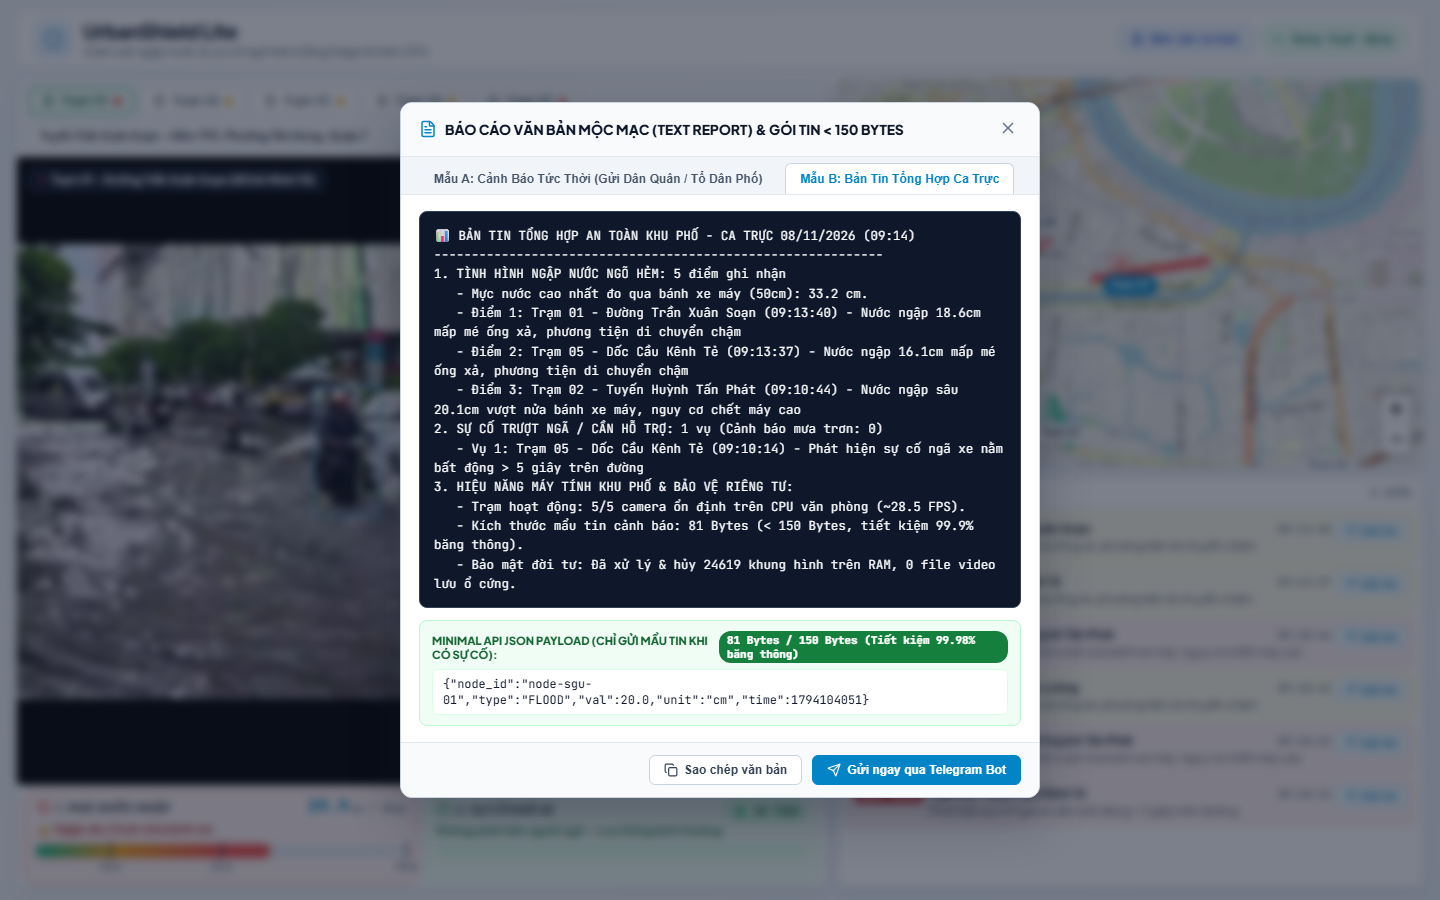
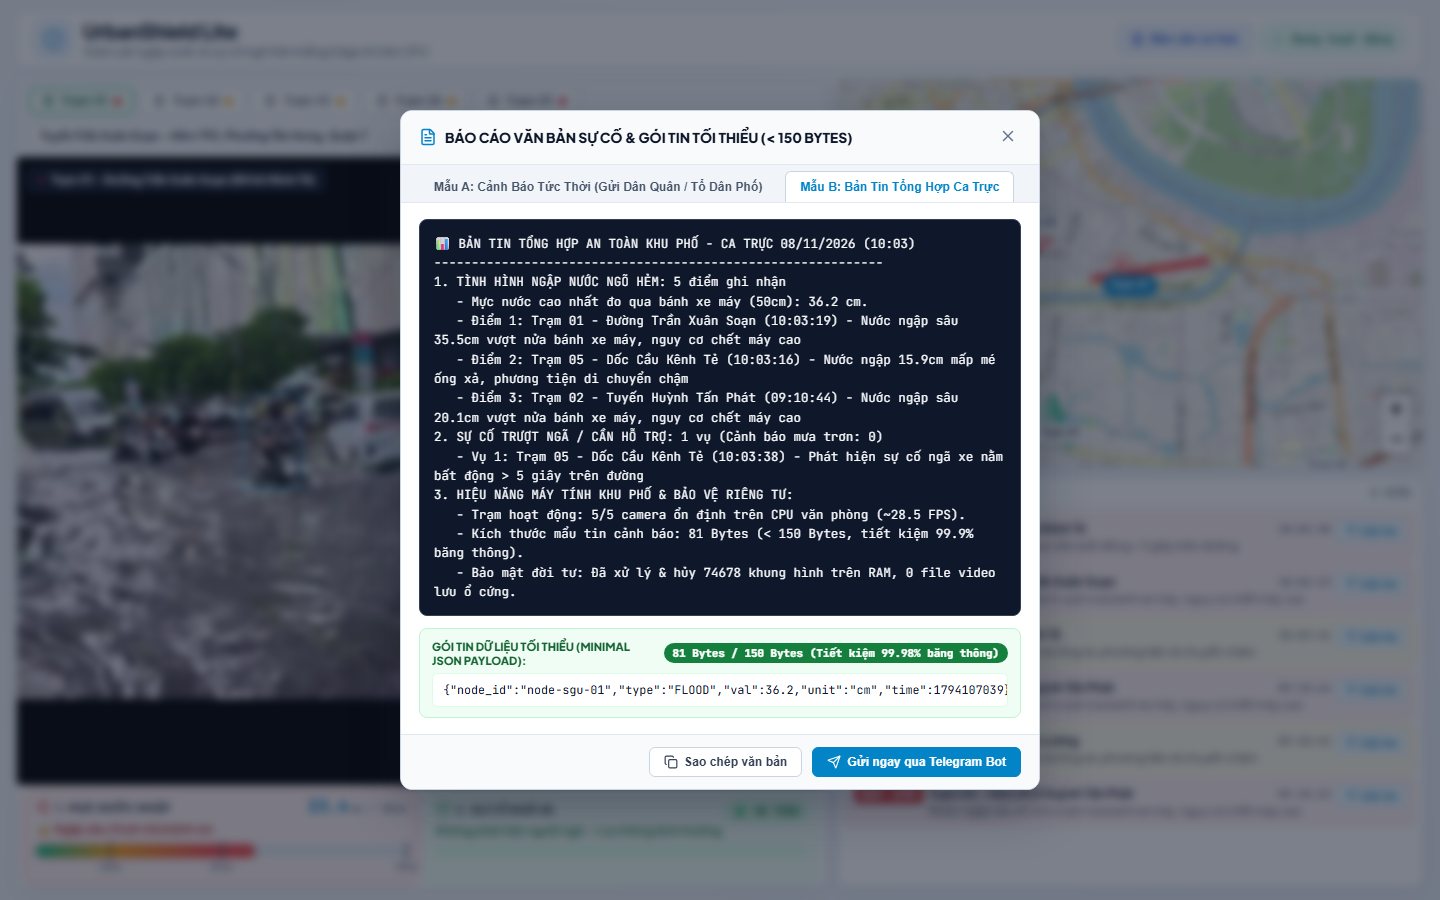
fix(ui): prevent JSON payload line wrap, polish text report modal title and label

diff --git a/frontend/src/components/ReportModal.jsx b/frontend/src/components/ReportModal.jsx
@@ -35,7 +35,7 @@ export default function ReportModal({
         <div className="report-modal-header">
           <div style={{ display: 'flex', alignItems: 'center', gap: '8px' }}>
             <FileText size={18} style={{ color: '#0284c7' }} />
-            <h3>BÁO CÁO VĂN BẢN MỘC MẠC (TEXT REPORT) & GÓI TIN &lt; 150 BYTES</h3>
+            <h3>BÁO CÁO VĂN BẢN SỰ CỐ &amp; GÓI TIN TỐI THIỂU (&lt; 150 BYTES)</h3>
           </div>
           <button className="modal-close-btn" onClick={onClose}>
             <X size={18} />
@@ -62,7 +62,7 @@ export default function ReportModal({
 
           <div className="payload-proof-card">
             <div className="payload-proof-header">
-              <span>MINIMAL API JSON PAYLOAD (CHỈ GỬI MẨU TIN KHI CÓ SỰ CỐ):</span>
+              <span>GÓI TIN DỮ LIỆU TỐI THIỂU (MINIMAL JSON PAYLOAD):</span>
               <span className="byte-pill">
                 {proofByteSize} Bytes / 150 Bytes (Tiết kiệm 99.98% băng thông)
               </span>

diff --git a/frontend/src/App.css b/frontend/src/App.css
@@ -249,6 +249,7 @@
   display: flex;
   align-items: center;
   justify-content: space-between;
+  gap: 8px;
   font-size: 0.70rem;
   font-weight: 800;
   color: #166534;
@@ -257,21 +258,25 @@
 .byte-pill {
   background: #15803d;
   color: #ffffff;
-  padding: 2px 8px;
+  padding: 3px 9px;
   border-radius: 12px;
   font-family: var(--font-mono);
   font-size: 0.68rem;
+  white-space: nowrap;
+  flex-shrink: 0;
 }
 
 .payload-code {
   background: #ffffff;
   border: 1px solid #dcfce7;
-  padding: 6px 10px;
+  padding: 8px 10px;
   border-radius: 6px;
   font-family: var(--font-mono);
-  font-size: 0.74rem;
+  font-size: 0.73rem;
   color: #0f172a;
   overflow-x: auto;
+  white-space: nowrap;
+  display: block;
 }
 
 .report-modal-footer {
